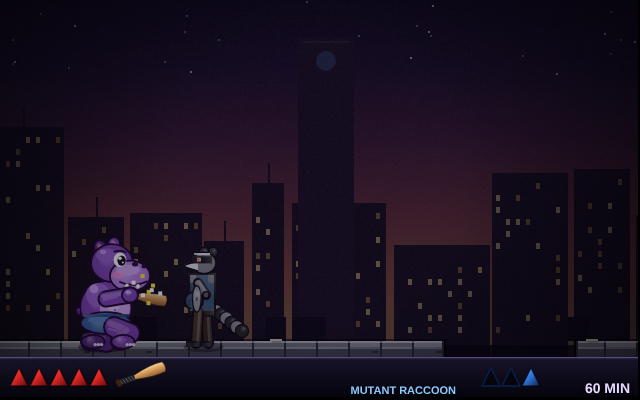
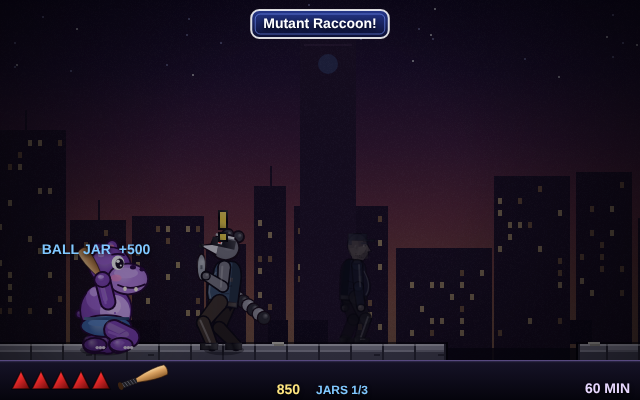
Batch 2: gritty new enemy figures, animation and fighting AI
Claude-Session: https://claude.ai/code/session_01RATZJMRGstuY21y69RtZUm

diff --git a/index.html b/index.html
@@ -876,7 +876,8 @@ function killFoe(e,how){const t=ET[e.type];if(e.st==='dead')return;e.hp=0;e.st='
 function hitFoe(e,dmg,kb,wn,fin){const t=ET[e.type],p=P;e.engaged=true;const hx=e.x-p.f*6,hy=e.y-(t.small?10:30);
  if(e.final){SFX.hurt();sparks(hx,hy,8,['#3a1a5a','#8a3ac0']);msgSet('Hitting your shadow only hurts you! Press DOWN and walk into him.',2.5);if(p.inv<=0)hurt(1,'self');return;}
  if(t.boss)kb*=0.25;
- if(!t.small&&wn!=='gun'&&(e.st==='idle'||e.st==='walk'||e.st==='recover'||e.st==='block'||(e.st==='stun'&&e.t>0.12))&&e.f===-p.f&&Math.random()<(t.block+(e.guard>0?0.45:0))*(wn==='bat'?0.4:1)*(fin?0.4:1)){e.st='block';e.t=0;SFX.clang();sparks(hx,hy,6,['#ffffff','#a0d8ff']);hitStop=0.05;return;}
+ if(e.st==='dodge'&&e.t<0.2){sparks(e.x,e.y-34,3,['#ffffff']);msgSet('Dodged!',0.6);return;}
+ if(!t.small&&wn!=='gun'&&(e.st==='idle'||e.st==='walk'||e.st==='recover'||e.st==='block'||e.st==='guard'||e.st==='feint'||(e.st==='stun'&&e.t>0.12))&&e.f===-p.f&&Math.random()<Math.min(0.75,t.block+(e.st==='guard'?0.4:0)+(e.guard>0?0.3:0))*(wn==='bat'?0.4:1)*(fin?0.4:1)){e.st='block';e.t=0;SFX.clang();sparks(hx,hy,6,['#ffffff','#a0d8ff']);hitStop=0.05;return;}
  e.hp-=dmg;e.guard=1.1;e.flash=0.18;SFX.hitE();sparks(hx,hy,fin?14:8,fin?['#ffffff','#ffe040','#ff8020']:['#ffffff','#ffe040']);hitStop=fin?0.12:0.06;shakeT=fin?0.2:0.08;
  if(fin)msgSet(['WHAM!','POW!','CRACK!','BOOM!'][Math.floor(Math.random()*4)],0.8);
  const er=rowOf(e.y),nx=e.x+p.f*kb,nc=colOf(nx);
@@ -897,6 +898,10 @@ function foeStrike(e){const p=P,t=ET[e.type];const adx=Math.abs(p.x-e.x);
  if(p.st==='dead'||rowOf(p.y)!==rowOf(e.y)||adx>t.reach+5||p.inv>0)return;foeHits(e);}
 function throwBottle(e){const p=P,t=ET[e.type],kind=t.proj||'bottle';const dx=p.x-e.x;if(kind==='golf'){LV.ebullets.push({x:e.x+e.f*10,y:e.y-20,vx:Math.sign(dx)*240,vy:-110,r:rowOf(e.y),src:e,life:2.5,kind});tone(1600,0.05,'square',0.04);return;}
  const tt=Math.max(0.45,Math.abs(dx)/170);LV.ebullets.push({x:e.x+e.f*8,y:e.y-36,vx:dx/tt,vy:-230,r:rowOf(e.y),src:e,life:2.5,kind});SFX.swing();}
+const STY={brawler:{feint:.06,guard:.08,parry:.12,dodge:0,combo:[1,2]},boxer:{feint:.15,guard:.18,parry:.3,dodge:.05,combo:[1,3]},suit:{feint:.1,guard:.22,parry:.35,dodge:.1,combo:[1,2]},
+ coward:{feint:.22,guard:.08,parry:.15,dodge:.35,combo:[1,1]},heavy:{feint:0,guard:.15,parry:.2,dodge:0,combo:[1,1]},rush:{feint:.05,guard:0,parry:.05,dodge:.2,combo:[2,3]},
+ beast:{feint:0,guard:0,parry:.05,dodge:.12,combo:[1,2]},trick:{feint:.3,guard:.05,parry:.12,dodge:.35,combo:[1,2]},boss:{feint:.15,guard:.12,parry:.2,dodge:.08,combo:[2,3]}};
+const STYLE={R:'brawler',j:'brawler',c:'boxer',A:'boxer',S:'boxer',y:'suit',z:'coward',l:'heavy',F:'heavy',g:'rush',O:'rush',M:'beast',b:'beast',X:'beast',N:'trick',Y:'trick',K:'boss',G:'boss'};
 function updateFoes(dt){const p=P;const pr=rowOf(p.y);
  for(const e of LV.enemies){const t=ET[e.type];e.t+=dt;if(e.flash>0)e.flash-=dt;if(e.guard>0)e.guard-=dt;
   if(e.st==='dead'){e.deadT+=dt;continue;}
@@ -925,20 +930,31 @@ function updateFoes(dt){const p=P;const pr=rowOf(p.y);
    case 'alert':e.f=dx>=0?1:-1;if(!sees){e.st='idle';e.engaged=false;e.t=0;break;}if(e.t>(t.small?0.6:1.0)){e.st='walk';e.t=0;e.cd=0.5;}break;
    case 'walk':{
     if(!sees){e.st='idle';e.t=0;break;}
-    e.f=dx>=0?1:-1;
+    e.f=dx>=0?1:-1;const S2=STY[STYLE[e.type]||'brawler'];
     if(t.throws&&adx>70&&e.cd<=0&&Math.random()<t.throws*(e.final2?1.8:1)*dt*3){e.st='throw';e.t=0;break;}
     if(t.lunge&&adx>45&&adx<120&&e.cd<=0&&Math.random()<t.lunge*dt*3){e.st='lwind';e.t=0;if(e.type==='b')SFX.bark();if(e.type==='X')SFX.howl();break;}
-    const want=t.small?18:27;
     if(e.final&&p.sheathT>0)break;
-    if(adx>want){const sp=(t.twitchy?t.speed*(0.6+0.8*Math.abs(Math.sin(T*7+e.home))):t.speed)*(e.enraged?1.3:1);if(!move(e.f*sp)&&adx<=t.reach+4&&e.cd<=0){e.st='wind';e.t=0;}}
-    else if(e.cd<=0){e.st='wind';e.t=0;if(e.type==='g'&&Math.random()<.5)SFX.honk();}
+    const sp=(t.twitchy?t.speed*(0.6+0.8*Math.abs(Math.sin(T*7+e.home))):t.speed)*(e.enraged?1.3:1);
+    if(p.st==='attack'&&adx<t.reach+34&&!e.reacted&&!e.final&&!(e.reactT>T)){e.reacted=true;e.reactT=T+1.3;const r=Math.random();if(r<S2.parry){e.st='guard';e.t=0.3;e.guard=0.6;break;}if(r<S2.parry+S2.dodge){e.st='dodge';e.t=0;break;}}
+    if(p.st!=='attack')e.reacted=false;
+    const d0=t.reach+12;
+    if(e.plan==='atk'){if(adx>t.reach-6){if(!move(e.f*sp*1.2)&&adx<=t.reach+4){e.st='wind';e.t=0;e.plan=null;}}else{e.st='wind';e.t=0;e.plan=null;}break;}
+    if(adx>d0+26){if(!move(e.f*sp)&&adx<=t.reach+4&&e.cd<=0){e.st='wind';e.t=0;}}
+    else{const tgt=d0+Math.sin(T*2.2+e.home*0.1)*7;if(adx<tgt-3)move(-e.f*sp*0.5);else if(adx>tgt+3)move(e.f*sp*0.5);
+     if(e.cd<=0){const r=Math.random();e.cd=0.25;
+      if(r<S2.feint){e.st='feint';e.t=0;}
+      else if(r<S2.feint+S2.guard){e.st='guard';e.t=0;e.guard=0.8;}
+      else{e.plan='atk';e.combo=S2.combo[0]-1+Math.floor(Math.random()*(S2.combo[1]-S2.combo[0]+1));if(e.type==='g'&&Math.random()<.5)SFX.honk();}}}
     break;}
+   case 'feint':if(e.t>0.22){e.st='retreat';e.t=0.12;if(Math.random()<0.55){e.plan='atk';e.combo=0;}}break;
+   case 'guard':e.f=dx>=0?1:-1;if(e.t>0.75){e.st='walk';e.t=0;e.cd=0.15;}break;
+   case 'dodge':move(-e.f*200);if(e.t>0.22){e.st='walk';e.t=0;e.cd=0;if(Math.random()<0.7){e.plan='atk';e.combo=0;}}break;
    case 'throw':if(e.t>0.45){throwBottle(e);e.st='recover';e.t=0;}break;
    case 'lwind':e.f=dx>=0?1:-1;if(e.t>0.45){e.st='lunge';e.t=0;}break;
    case 'lunge':{const ok=move(e.f*(t.small?240:200));if(adx<=t.reach||!ok||e.t>0.35){e.st='strike';e.t=0;foeStrike(e);}break;}
    case 'wind':if(e.t>t.wind){e.st='strike';e.t=0;foeStrike(e);}break;
-   case 'strike':if(e.t>0.16){if(t.retreat){e.st='retreat';e.t=0;}else{e.st='recover';e.t=0;}}break;
-   case 'retreat':move(-e.f*t.speed*0.8);if(e.t>0.35){e.st='walk';e.t=0;e.cd=rnd2(t.cd)*0.6;}break;
+   case 'strike':if(e.t>0.16){if(e.combo>0&&sees&&adx<=t.reach+16){e.combo--;e.st='wind';e.t=t.wind*0.55;}else{e.combo=0;if(t.retreat){e.st='retreat';e.t=0;}else{e.st='recover';e.t=0;}}}break;
+   case 'retreat':move(-e.f*t.speed*0.8);if(e.t>0.35){e.st='walk';e.t=0;if(e.plan!=='atk')e.cd=rnd2(t.cd)*0.6;}break;
    case 'recover':if(e.t>0.25){e.st='walk';e.t=0;e.cd=rnd2(t.cd)*(e.final2?0.7:1);}break;
    case 'block':if(e.t>0.22){if(adx<=t.reach+2&&sees&&Math.random()<0.7){e.st='wind';e.t=t.wind*0.3;}else{e.st='walk';e.t=0;e.cd=Math.min(e.cd,0.2);}}break;
    case 'stun':if(e.t>0.3){e.st='walk';e.t=0;e.cd=0.1+Math.random()*0.35;}break;}}
@@ -1318,6 +1334,7 @@ const CIV={
  colts:{skin:'#e0b090',skinD:'#b88868',shirt:'#1a3a8a',shirtD:'#122a66',pants:'#3a3a44',pantsD:'#2a2a32',shoe:'#202020',hat:'cap',hair:'#1a3a8a',belly:4,wep:'none'},
  doom:{skin:'#d8a888',skinD:'#b08060',shirt:'#2a2a2a',shirtD:'#1a1a1a',pants:'#3a3a3a',pantsD:'#2a2a2a',shoe:'#1a1a1a',hat:'cap',hair:'#2a2a2a',belly:0,wep:'none'},
  harmonica:{skin:'#d8b090',skinD:'#b08868',shirt:'#4a6a3a',shirtD:'#3a5a2a',pants:'#5a4a3a',pantsD:'#443628',shoe:'#3a2a1a',belly:1,wep:'none',hair:'#8a8a8a'}};
+for(const k in CIV)CIV[k].__k='civ_'+k;
 const CIV_E=['doom','harmonica','worker','lady','student','colts','worker','student'];
 function drawCiv(kind,cx,S,f,extra){const ft=CIV[kind];const e={type:'civ',st:'idle',t:0.3,anim:0,f,flash:0,hp:1,max:1,engaged:false,deadT:0};
  SH=true;try{drawFoeInner(e,cx,S,ft,{});}finally{SH=false;}
@@ -1625,22 +1642,23 @@ function drawHippoAt(pp,x,y,scale){const psh=SH;SH=true;C.save();C.translate(x,y
 const FOES={
  R:{skin:'#e08a6a',skinD:'#b4644a',shirt:'#ece8dc',shirtD:'#c0b8a4',pants:'#4a6a9a',pantsD:'#34507a',shoe:'#5a3a1a',hat:'camo',hair:'#7a4a20',belly:4,wep:'iron',bare:true},
  c:{skin:'#e0b090',skinD:'#b88a6a',shirt:'#26346a',shirtD:'#182250',pants:'#1c2850',pantsD:'#121a38',shoe:'#101010',hat:'cop',hair:'#3a2a1a',belly:3,wep:'stick',stache:true,shades:true,badge:true},
- y:{skin:'#e8c0a0',skinD:'#c09878',shirt:'#5e626e',shirtD:'#46494f',pants:'#4a4d56',pantsD:'#383a42',shoe:'#141414',hat:'slick',hair:'#18120e',belly:1,wep:'case',tie:'#c02020'},
+ y:{skin:'#e8c0a0',skinD:'#c09878',shirt:'#e4e0d6',jacket:'#5e626e',shirtD:'#46494f',pants:'#4a4d56',pantsD:'#383a42',shoe:'#141414',hat:'slick',hair:'#18120e',belly:1,wep:'case',tie:'#c02020'},
  j:{skin:'#d8b8a0',skinD:'#b09078',shirt:'#5a5a62',shirtD:'#44444a',pants:'#3a4a6a',pantsD:'#2a3850',shoe:'#2a2a2a',hat:'hood',hair:'#4a3a2a',belly:0,wep:'bottle'},
- K:{skin:'#e8b898',skinD:'#c09070',shirt:'#3a3a44',shirtD:'#2a2a32',pants:'#3a3a44',pantsD:'#2a2a32',shoe:'#141414',hat:'silver',hair:'#c8c8cc',belly:6,wep:'gavel',tie:'#d8b040',grin:true,pin:true},
- G:{skin:'#f0c8a8',skinD:'#c8a080',shirt:'#1a1a22',shirtD:'#101016',pants:'#1a1a22',pantsD:'#101016',shoe:'#3a2010',hat:'slick',hair:'#a8a8b0',belly:1,wep:'club',tie:'#c02020',shades:true},
+ K:{skin:'#e8b898',skinD:'#c09070',shirt:'#e4e0d6',jacket:'#3a3a44',shirtD:'#2a2a32',pants:'#3a3a44',pantsD:'#2a2a32',shoe:'#141414',hat:'silver',hair:'#c8c8cc',belly:6,wep:'gavel',tie:'#d8b040',grin:true,pin:true},
+ G:{skin:'#f0c8a8',skinD:'#c8a080',shirt:'#e4e0d6',jacket:'#1a1a22',shirtD:'#101016',pants:'#1a1a22',pantsD:'#101016',shoe:'#3a2010',hat:'slick',hair:'#a8a8b0',belly:1,wep:'club',tie:'#c02020',shades:true},
  X:{skin:'#6a5a4a',skinD:'#4a3e32',shirt:'#8a2a2a',shirtD:'#5a1a1a',pants:'#3a4a6a',pantsD:'#2a3850',shoe:'#4a3e32',hat:'wolf',hair:'#5a4a3a',belly:2,wep:'claw',fur:true},
  A:{skin:'#e0b494',skinD:'#b88c6c',shirt:'#8a8e96',shirtD:'#6a6e76',pants:'#2a3040',pantsD:'#1c2230',shoe:'#101010',hat:'guard',hair:'#3a2a1a',belly:2,wep:'flashlight',badge:true,radio:true},
  O:{skin:'#e8892c',skinD:'#b8641a',shirt:'#26262c',shirtD:'#18181c',pants:'#5a4a6a',pantsD:'#443652',shoe:'#e8892c',belly:1,wep:'claw',mutant:'cat',bare:true,rags:true},
- F:{skin:'#eab494',skinD:'#c08a6a',shirt:'#3a3e30',shirtD:'#2a2e22',pants:'#3a3e30',pantsD:'#2a2e22',shoe:'#1a1208',hat:'slick',hair:'#ececec',belly:8,wep:'stick',tie:'#2a8a3a',grin:true,cigar:true},
+ F:{skin:'#eab494',skinD:'#c08a6a',shirt:'#e4e0d6',jacket:'#3a3e30',shirtD:'#2a2e22',pants:'#3a3e30',pantsD:'#2a2e22',shoe:'#1a1208',hat:'slick',hair:'#ececec',belly:8,wep:'stick',tie:'#2a8a3a',grin:true,cigar:true},
  l:{skin:'#f2c8b0',skinD:'#c89880',shirt:'#ece6cc',shirtD:'#c8c0a0',pants:'#5a4632',pantsD:'#44341f',shoe:'#2a1a10',hat:'bald',hair:'#4a3a2a',belly:6,wep:'none',tank:true},
  g:{skin:'#8a7a68',skinD:'#6a5a4a',shirt:'#8a7a68',shirtD:'#6a5a4a',pants:'#3a4a62',pantsD:'#2a3850',shoe:'#e08a20',belly:3,wep:'wing',mutant:'goose',bare:true},
  M:{skin:'#7a5634',skinD:'#5a3e22',shirt:'#4a6a3a',shirtD:'#344e28',pants:'#3a3a32',pantsD:'#2a2a24',shoe:'#3a2a1a',belly:2,wep:'claw',mutant:'muskrat',bare:true,rags:true},
  Y:{skin:'#b8703a',skinD:'#8a5026',shirt:'#6a2a5a',shirtD:'#4e1e42',pants:'#4a4a5a',pantsD:'#36364a',shoe:'#5a3a1a',belly:0,wep:'claw',mutant:'squirrel',bare:true,rags:true},
  N:{skin:'#8a8a92',skinD:'#606068',shirt:'#3a5a7a',shirtD:'#2a4058',pants:'#4a3a2a',pantsD:'#36281c',shoe:'#202020',belly:3,wep:'lid',mutant:'raccoon',bare:true,rags:true},
  b:{skin:'#b89a7a',skinD:'#8a6e52',shirt:'#e8e4d8',shirtD:'#c0b8a4',pants:'#2a3040',pantsD:'#1c2230',shoe:'#141414',belly:1,wep:'claw',mutant:'pitbull',bare:true},
- z:{skin:'#eac2a2',skinD:'#c29a7a',shirt:'#b49a6a',shirtD:'#8e784e',pants:'#a88e60',pantsD:'#86704a',shoe:'#2a1a10',hat:'silver',hair:'#d4d4d8',belly:2,wep:'key',tie:'#6a3a9a',grin:true,pin:true}};
+ z:{skin:'#eac2a2',skinD:'#c29a7a',shirt:'#e4e0d6',jacket:'#b49a6a',shirtD:'#8e784e',pants:'#a88e60',pantsD:'#86704a',shoe:'#2a1a10',hat:'silver',hair:'#d4d4d8',belly:2,wep:'key',tie:'#6a3a9a',grin:true,pin:true}};
 const OUT2='#140a10';
+for(const k in FOES)FOES[k].__k=k;
 function foeWeapon(kind,hx,hy,ang){const ca=Math.cos(ang),sa=Math.sin(ang),pt=d=>[hx+ca*d,hy+sa*d];
  if(kind==='iron'){const a=pt(-1),b=pt(13);TL(a[0],a[1],b[0],b[1],4,OUT2);TL(a[0],a[1],b[0],b[1],2,'#8a8a96');const c=[b[0]-sa*4,b[1]+ca*4];TL(b[0],b[1],c[0],c[1],4,OUT2);TL(b[0],b[1],c[0],c[1],2,'#8a8a96');}
  else if(kind==='stick'){const a=pt(-3),b=pt(14);TL(a[0],a[1],b[0],b[1],5,OUT2);TL(a[0],a[1],b[0],b[1],3,'#24242a');TL(a[0],a[1],b[0],b[1],1,'#4a4a56');}
@@ -1764,26 +1782,135 @@ function drawFoe(e,sx,sy){const ft=FOES[e.type],t=ET[e.type];
  SH=true;try{drawFoeInner(e,sx,sy,ft,t);}finally{SH=false;}
  if(e.st==='dead'&&!e.washed&&!e.vanish&&!t.shadow)koStars(sx,sy-(t.small?14:(t.big?26:20)),t.small?0.7:1);}
 function koStars(x,y,k){C.save();for(let i=0;i<3;i++){const a=T*4+i*2.094,px=x+Math.cos(a)*9*k,py=y+Math.sin(a)*3*k,r=2.6*k*(0.8+0.25*Math.sin(a));C.fillStyle=Math.sin(a)>0?'#ffe040':'#fff6b0';C.beginPath();for(let j=0;j<8;j++){const rr=j%2?r*0.4:r,aa=j*Math.PI/4+T*3;C.lineTo(px+Math.cos(aa)*rr,py+Math.sin(aa)*rr);}C.closePath();C.fill();}C.restore();}
+/* ================= GRITTY FIGURES (batch 2) ================= */
+const FO='#0b090e';
+function shade(hex,f){const n=parseInt(hex.slice(1),16);let r=(n>>16)&255,g=(n>>8)&255,b=n&255;if(f<1){r*=f;g*=f;b*=f;}else{r+=(255-r)*(f-1);g+=(255-g)*(f-1);b+=(255-b)*(f-1);}return '#'+((1<<24)|(Math.round(r)<<16)|(Math.round(g)<<8)|Math.round(b)).toString(16).slice(1);}
+const GRIT_CACHE={};
+function grit(ft){if(GRIT_CACHE[ft.__k])return GRIT_CACHE[ft.__k];const g={};for(const k in ft){const v=ft[k];g[k]=(typeof v==='string'&&v[0]==='#'&&v.length===7)?mute(v):v;}if(ft.__k)GRIT_CACHE[ft.__k]=g;return g;}
+function mute(hex){const n=parseInt(hex.slice(1),16);let r=(n>>16)&255,g=(n>>8)&255,b=n&255;const l=(r+g+b)/3;r=r*0.78+l*0.22;g=g*0.78+l*0.22;b=b*0.78+l*0.22;r*=0.9;g*=0.9;b*=0.92;return '#'+((1<<24)|(Math.round(r)<<16)|(Math.round(g)<<8)|Math.round(b)).toString(16).slice(1);}
+function ik2(ax,ay,bx,by,l1,l2,dir){const dx=bx-ax,dy=by-ay;let d=Math.hypot(dx,dy);const mx=l1+l2-0.01;if(d>mx){bx=ax+dx/d*mx;by=ay+dy/d*mx;d=mx;}d=Math.max(d,0.01);
+ const a=(l1*l1-l2*l2+d*d)/(2*d),h=Math.sqrt(Math.max(0,l1*l1-a*a));const px=ax+dx*a/d,py=ay+dy*a/d;return [px+dir*h*(-dy/d),py+dir*h*(dx/d),bx,by];}
+function limb(ax,ay,bx,by,w1,w2,col){const dx=bx-ax,dy=by-ay,d=Math.hypot(dx,dy)||1,nx=-dy/d,ny=dx/d;
+ C.fillStyle=FO;C.beginPath();C.moveTo(ax+nx*(w1/2+0.8),ay+ny*(w1/2+0.8));C.lineTo(bx+nx*(w2/2+0.8),by+ny*(w2/2+0.8));C.lineTo(bx-nx*(w2/2+0.8),by-ny*(w2/2+0.8));C.lineTo(ax-nx*(w1/2+0.8),ay-ny*(w1/2+0.8));C.fill();
+ C.beginPath();C.arc(ax,ay,w1/2+0.8,0,7);C.arc(bx,by,w2/2+0.8,0,7);C.fill();
+ C.fillStyle=col;C.beginPath();C.moveTo(ax+nx*w1/2,ay+ny*w1/2);C.lineTo(bx+nx*w2/2,by+ny*w2/2);C.lineTo(bx-nx*w2/2,by-ny*w2/2);C.lineTo(ax-nx*w1/2,ay-ny*w1/2);C.fill();
+ C.beginPath();C.arc(ax,ay,w1/2,0,7);C.fill();C.beginPath();C.arc(bx,by,w2/2,0,7);C.fill();}
+function figHead(ft,hx,hy,tilt,q){C.save();C.translate(hx,hy);C.rotate(tilt||0);
+ if(ft.mutant){C.scale(1.18,1.18);mutantHead(ft,0,0);C.restore();return;}
+ if(ft.hat==='wolf'){wolfHead(ft);C.restore();return;}
+ const sk=ft.skin,skd=shade(ft.skin,0.72),hair=ft.hair||'#2a2018';
+ // neck
+ R(-2.5,4,5,5,FO);R(-1.8,4,3.6,5,skd);
+ // back hair / ear
+ if(ft.hat==='mullet'){C.fillStyle=FO;C.beginPath();C.moveTo(-5.5,-2);C.lineTo(-7,9);C.lineTo(-2,7);C.fill();C.fillStyle=hair;C.beginPath();C.moveTo(-5,-1);C.lineTo(-6.2,8);C.lineTo(-2.4,6.2);C.fill();}
+ // skull + jaw
+ C.fillStyle=FO;C.beginPath();C.ellipse(0,-1,6,6.8,0,0,7);C.fill();C.beginPath();C.moveTo(-5,1);C.lineTo(-3,7.4);C.lineTo(3.6,8.2);C.lineTo(6.6,4);C.lineTo(6.4,-1);C.fill();
+ C.fillStyle=sk;C.beginPath();C.ellipse(0,-1,5.2,6,0,0,7);C.fill();C.beginPath();C.moveTo(-4.3,1);C.lineTo(-2.6,6.6);C.lineTo(3.4,7.4);C.lineTo(5.8,3.8);C.lineTo(5.6,-1);C.fill();
+ C.fillStyle=skd;C.beginPath();C.ellipse(-2.2,0,3,5.4,0,0,7);C.fill();C.beginPath();C.moveTo(-4.3,1);C.lineTo(-2.6,6.6);C.lineTo(0,6.9);C.lineTo(-1,1);C.fill();
+ // nose
+ C.fillStyle=sk;C.beginPath();C.moveTo(5,-2);C.lineTo(7.6,2.2);C.lineTo(5.2,2.8);C.fill();C.strokeStyle=FO;C.lineWidth=0.6;C.beginPath();C.moveTo(5.2,-2);C.lineTo(7.8,2.3);C.lineTo(5.4,2.9);C.stroke();
+ // ear
+ E(-0.6,0.4,1.4,2,skd);E(-0.4,0.4,0.6,1.1,shade(ft.skin,0.55));
+ // brow + eye
+ R(1.8,-2.6,4,1.1,shade(hair,0.8));
+ if(q.eyes==='x'){C.strokeStyle=FO;C.lineWidth=0.7;C.beginPath();C.moveTo(3,-1.6);C.lineTo(4.8,0.2);C.moveTo(4.8,-1.6);C.lineTo(3,0.2);C.stroke();}
+ else if(ft.shades){R(1.6,-1.8,4.8,2,'#0a0a10');R(2,-1.6,1.4,0.6,'#6a7a9a');}
+ else{R(3.2,-1.4,1.6,1.3,'#f0e8d8');R(3.9,-1.3,0.9,1.1,'#100c0c');}
+ // cheek shadow, stubble, mouth
+ C.save();C.globalAlpha=0.35;R(1,2.6,5,4,shade(ft.skin,0.6));C.restore();
+ if(ft.stubble!==false&&!ft.clean){C.save();C.globalAlpha=0.35;for(let i=0;i<10;i++)R(-1+((i*37)%7),3.5+((i*13)%3),0.6,0.6,'#2a2018');C.restore();}
+ if(q.mouth){R(2.6,4.2,3,1.6,'#3a1010');R(2.8,4.2,2.6,0.5,'#e8e0c8');}else if(ft.grin){R(2.4,4.4,3.4,0.8,'#5a2020');R(2.6,4.2,3,0.5,'#f0e8d0');}else R(2.8,4.6,2.6,0.7,shade(ft.skin,0.45));
+ if(ft.stache)R(2.4,3.4,3.8,1.4,hair);
+ if(ft.cigar){R(5,4.4,6,1.6,'#5a3a1a');R(10.4,4.4,1,1.6,'#ff6020');C.save();C.globalAlpha*=0.4;E(11+Math.sin(T*3),0-((T*6)%6),1.5,1.5,'#c8c8c8');C.restore();}
+ // hair / hats
+ const h=ft.hat;
+ if(h==='bald'){R(-5,-2,2,5,hair);R(-4.6,-3,1.6,1,hair);E(0,-4.6,2.4,1.1,'rgba(255,250,240,0.75)');for(let i=0;i<2;i++){const ph=(T*0.9+i*0.55)%1;C.save();C.globalAlpha*=1-ph;E(i?3:-1,-3+ph*9,0.7,1.1,'#a8e0ff');C.restore();}}
+ else if(h==='slick'||h==='silver'){C.fillStyle=FO;C.beginPath();C.ellipse(-0.6,-4.2,6,3.6,-0.15,Math.PI*0.95,Math.PI*2.05);C.fill();C.fillStyle=hair;C.beginPath();C.ellipse(-0.6,-4,5.4,3,-0.15,Math.PI*0.95,Math.PI*2.05);C.fill();R(-5.6,-4,2.4,5,hair);C.strokeStyle=shade(hair,1.3);C.lineWidth=0.5;C.beginPath();C.moveTo(-4,-5.5);C.quadraticCurveTo(0,-7.6,4.4,-5);C.stroke();
+  if(h==='silver'){E(4.2,-4.4,1.6,1.4,hair);}}
+ else if(h==='camo'||h==='cap'){R(-5.6,-7.6,11,4.2,FO);R(-5,-7.2,10,3.6,h==='camo'?'#4a5a32':hair);if(h==='camo'){R(-3,-6.6,2,1,'#2a3420');R(1,-5.6,2,1,'#6a6a3a');}R(3,-4.4,6.6,1.6,FO);R(3.4,-4.2,6,1,h==='camo'?'#3a4a28':shade(hair,0.8));R(-5.2,-4,2,3,shade(ft.hair||'#5a3a20',0.9));}
+ else if(h==='cop'||h==='guard'){R(-5.8,-8.4,11.6,4.6,FO);R(-5.2,-8,10.4,4,h==='cop'?'#1c2850':'#4a4e56');R(-0.5,-7.4,2.4,1.6,h==='cop'?'#e8c040':'#c8c8d0');R(3,-4.6,6.6,1.6,FO);R(3.4,-4.4,6,1,'#101010');}
+ else if(h==='hood'){C.fillStyle=FO;C.beginPath();C.ellipse(-0.5,-1,7,7.6,0,Math.PI*0.6,Math.PI*2.2);C.fill();C.fillStyle=ft.shirt;C.beginPath();C.ellipse(-0.5,-1,6.2,6.8,0,Math.PI*0.6,Math.PI*2.2);C.fill();}
+ else{C.fillStyle=hair;C.beginPath();C.ellipse(-0.8,-4,5.4,3,0,Math.PI,Math.PI*2);C.fill();R(-5.6,-4,2.2,4,hair);}
+ C.restore();}
+function wolfHead(ft){const f=ft.skin,fd=shade(ft.skin,0.7);C.fillStyle=FO;C.beginPath();C.moveTo(-4,-6);C.lineTo(-2,-13);C.lineTo(1,-6);C.fill();C.beginPath();C.moveTo(0,-6);C.lineTo(3,-12);C.lineTo(5,-5);C.fill();
+ E(0,-1,6.6,6.4,FO);E(0,-1,5.8,5.6,f);C.fillStyle=FO;C.beginPath();C.moveTo(3,-3);C.lineTo(12,1);C.lineTo(11,4);C.lineTo(3,5);C.fill();C.fillStyle=fd;C.beginPath();C.moveTo(3.4,-2.4);C.lineTo(11.2,1.2);C.lineTo(10.4,3.6);C.lineTo(3.4,4.4);C.fill();
+ R(10.6,0.4,1.8,1.6,'#0a0a0a');R(2.4,-2.6,2,1.4,'#ffd020');R(3.4,-2.4,0.8,1,'#000');for(let i=0;i<3;i++)R(5+i*2,3.4,0.8,1.6,'#f0e8d0');C.save();C.globalAlpha=0.5;for(let i=0;i<8;i++)R(-5+i*1.3,-6+((i*7)%5),0.6,2,fd);C.restore();}
+function figWeapon(ft,hx,hy,ang){foeWeapon(ft.wep,hx,hy,ang);}
+function drawFig(ft0,q){const ft=grit(ft0);
+ const hipX=q.hipX||0,hipY=-26+(q.crouch||0),lean=q.lean||0,sl=Math.sin(lean),cl=Math.cos(lean);
+ const S=(x,y)=>[hipX+x*cl-y*sl,hipY+x*sl+y*cl];
+ const [shx,shy]=S(0,-19),[sfx,sfy]=S(2,-18),[sbx,sby]=S(-2,-18);
+ const bare=ft.bare||ft.tank,armC=bare?ft.skin:(ft.jacket||ft.shirt),armD=shade(armC,0.62),leg=ft.pants,legD=shade(leg,0.62);
+ const big=q.bulk||0;
+ if(ft.mutant){C.save();C.translate(0,-8);mutantTail(ft);C.restore();}
+ // back arm
+ const [ebx,eby]=ik2(sbx,sby,q.hb[0],q.hb[1],10,10,1);limb(sbx,sby,ebx,eby,5.2+big,4.4+big,armD);limb(ebx,eby,q.hb[0],q.hb[1],4.4+big,3.6+big,bare?shade(ft.skin,0.62):armD);E(q.hb[0],q.hb[1],2.2,2.2,FO);E(q.hb[0],q.hb[1],1.5,1.5,shade(ft.skin,0.6));
+ // back leg
+ const [hbx,hby]=S(-2.2,0),[kbx,kby]=ik2(hbx,hby,q.fb[0],q.fb[1]-2.5,13,12,-1);limb(hbx,hby,kbx,kby,7+big,5.6+big,legD);limb(kbx,kby,q.fb[0],q.fb[1]-2.5,5.6+big,4.6+big,legD);
+ R(q.fb[0]-3,q.fb[1]-3.6,8.4,3.6,FO);R(q.fb[0]-2.4,q.fb[1]-3,7.4,2.6,shade(ft.shoe,0.65));
+ // torso
+ C.save();C.translate(hipX,hipY);C.rotate(lean);const bel=Math.min(9,(ft.belly||0)*1.1)+big;
+ const torso=(grow,col)=>{C.fillStyle=col;C.beginPath();C.moveTo(-6.4-grow,1+grow);C.lineTo(-6.6-grow,-10);C.quadraticCurveTo(-7-grow,-19-grow,-3,-20.6-grow);C.lineTo(3.4,-20.6-grow);C.quadraticCurveTo(7+grow,-19,6.6+grow,-14);C.quadraticCurveTo(7+bel+grow,-7,5.6+bel*0.6+grow,-1);C.quadraticCurveTo(4+grow,1.6+grow,-1,1.6+grow);C.closePath();C.fill();};
+ torso(0.9,FO);
+ const top=bare&&!ft.tank?ft.shirt:ft.shirt;
+ if(ft.mutant&&!ft.rags){torso(0,ft.skin);}
+ else if(ft.tank){torso(0,ft.skin);C.fillStyle=ft.shirt;C.beginPath();C.moveTo(-5.4,1);C.lineTo(-5.4,-14);C.lineTo(-3,-16);C.lineTo(-1,-12);C.lineTo(2.6,-12);C.lineTo(4,-16);C.lineTo(5.6,-14);C.quadraticCurveTo(6+bel,-7,4.8+bel*0.6,-1);C.lineTo(-1,1.2);C.fill();E(2,-6,1.6,1.2,'#b8a870');E(-2,-2,1.4,1,'#b8a870');R(-4.6,-19,1.7,19,'#7a1414');R(2.8,-19,1.7,19,'#7a1414');}
+ else{torso(0,ft.jacket||top);if(ft.jacket){C.fillStyle=ft.shirt;C.beginPath();C.moveTo(1.2,-20);C.lineTo(4.2,-20);C.lineTo(4.6+bel*0.4,-6);C.lineTo(2.4,-6);C.fill();if(ft.tie){C.fillStyle=ft.tie;C.beginPath();C.moveTo(2.4,-19.6);C.lineTo(3.8,-19.6);C.lineTo(4.2+bel*0.3,-9);C.lineTo(3,-7.6);C.lineTo(2,-9);C.fill();}
+   C.strokeStyle=shade(ft.jacket,0.55);C.lineWidth=0.8;C.beginPath();C.moveTo(1,-20);C.lineTo(2.2,-13);C.lineTo(1.6,-6);C.stroke();}
+  else if(ft.tie){C.fillStyle=ft.tie;C.beginPath();C.moveTo(2.4,-19.6);C.lineTo(3.8,-19.6);C.lineTo(4.2+bel*0.3,-9);C.lineTo(3,-7.6);C.lineTo(2,-9);C.fill();}
+  if(ft.rags){C.fillStyle=FO;for(let i=0;i<4;i++){C.beginPath();C.moveTo(-5+i*3,1);C.lineTo(-3.5+i*3,4);C.lineTo(-2+i*3,1);C.fill();}R(-3,-13,2,2,shade(ft.skin,0.8));R(2,-9,2,1.5,shade(ft.skin,0.8));}}
+ // torso shading: back side dark, front rim light, wrinkles
+ C.save();C.globalAlpha=0.38;C.fillStyle='#000';C.beginPath();C.moveTo(-6.4,1);C.lineTo(-6.6,-10);C.quadraticCurveTo(-7,-19,-3,-20.6);C.lineTo(-1.8,-20.6);C.lineTo(-2.4,1.4);C.fill();C.restore();
+ C.save();C.globalAlpha=0.25;C.strokeStyle='#ffffff';C.lineWidth=0.7;C.beginPath();C.moveTo(5.8,-15);C.quadraticCurveTo(6.4+bel,-7,5+bel*0.6,-1.5);C.stroke();C.restore();
+ C.save();C.globalAlpha=0.3;C.strokeStyle='#000';C.lineWidth=0.6;C.beginPath();C.moveTo(-3,-9);C.lineTo(1,-8);C.moveTo(-2,-5);C.lineTo(2,-4.4);C.stroke();C.restore();
+ if(ft.badge)R(2.8,-16,1.8,2,'#d8b040');
+ if(ft.radio){R(-4.6,-17,2.4,4,'#141414');R(-4,-17,0.8,0.8,Math.floor(T*3)%2?'#40ff40':'#104010');}
+ if(ft.pin)R(-0.6,-17,1.4,1.4,'#e8c040');
+ // belt + pants top
+ R(-6.6,-1,13+bel*0.5,2.6,FO);R(-6,-0.6,12+bel*0.5,1.8,ft.mutant&&!ft.rags?shade(ft.skin,0.8):shade(leg,0.8));R(1,-0.6,2,1.8,'#a08a40');
+ C.restore();
+ // front leg
+ const [hfx,hfy]=S(2.2,0),[kfx,kfy]=ik2(hfx,hfy,q.ff[0],q.ff[1]-2.5,13,12,-1);limb(hfx,hfy,kfx,kfy,7.2+big,5.8+big,leg);limb(kfx,kfy,q.ff[0],q.ff[1]-2.5,5.8+big,4.8+big,leg);
+ C.save();C.globalAlpha=0.3;TL(kfx+1.4,kfy-1,q.ff[0]+1,q.ff[1]-4,1,'#ffffff');C.restore();
+ R(q.ff[0]-3,q.ff[1]-3.6,9,3.6,FO);R(q.ff[0]-2.4,q.ff[1]-3,8,2.6,ft.shoe);R(q.ff[0]+0.4,q.ff[1]-3,3,0.8,shade(ft.shoe,1.4));
+ // head
+ const [hx,hy]=S(1.6+(q.headX||0),-28+(q.headY||0));figHead(ft,hx,hy,(q.tilt||0)+lean*0.5,q);
+ // front arm + weapon
+ const [efx,efy]=ik2(sfx,sfy,q.hf[0],q.hf[1],10,10,1);limb(sfx,sfy,efx,efy,5.4+big,4.6+big,armC);
+ if(ft.wep&&ft.wep!=='none')figWeapon(ft,q.hf[0],q.hf[1],q.wang);
+ limb(efx,efy,q.hf[0],q.hf[1],4.6+big,3.8+big,bare?ft.skin:armC);
+ if(!bare&&!ft.mutant){R(q.hf[0]-1.8,q.hf[1]-1.8,3.6,3.6,FO);}
+ E(q.hf[0],q.hf[1],2.4,2.3,FO);E(q.hf[0],q.hf[1],1.7,1.6,ft.mutant?shade(ft.skin,0.85):ft.skin);
+ C.save();C.globalAlpha=0.25;TL(sfx+1,sfy,efx+1,efy,1,'#ffffff');C.restore();}
+/* pose generation */
+function figPose(e,t){const ph=e.anim*0.22,s=Math.sin(ph),c=Math.cos(ph),br=Math.sin(T*2.4+(e.home||0))*0.6;
+ const q={hipX:0,crouch:0,lean:0.05,ff:[4,0],fb:[-4,0],hf:[6,-22],hb:[-4,-21],wang:1.2,tilt:0,headX:0,headY:br*0.3,mouth:0,eyes:'n'};
+ const guard=()=>{q.crouch=2.5;q.lean=0.1;q.hf=[9,-37];q.hb=[5,-33];q.wang=-1.1;q.ff=[6,0];q.fb=[-6,0];};
+ const st=e.st,k=e.t;
+ if(st==='idle'&&!e.engaged){q.hf=[5,-20+br*0.4];q.hb=[-4,-20];q.wang=1.3;}
+ else if(st==='idle'||st==='alert'||st==='guard'){guard();q.headY+=br*0.4;if(st==='alert'){q.lean=-0.12;q.tilt=-0.15;q.mouth=1;}if(st==='guard'){q.hf=[10,-39];q.hb=[8,-35];q.wang=-1.5;q.tilt=0.1;}}
+ else if(st==='walk'||st==='retreat'||st==='dodge'){guard();const sw=st==='dodge'?0.6:1;q.ff=[4+s*7*sw,-Math.max(0,c)*4*sw];q.fb=[-4-s*7*sw,-Math.max(0,-c)*4*sw];q.crouch=2.5+Math.abs(s)*1.2;q.hf[0]+=s*1.2;q.hb[0]-=s*1.2;
+  if(st==='dodge'){q.lean=-0.25;q.hf=[6,-40];q.hb=[2,-36];}}
+ else if(st==='wind'||st==='feint'){const a=Math.min(1,k/Math.max(0.12,t.wind));q.crouch=3.5;q.lean=-0.18*a;q.ff=[8,0];q.fb=[-7,0];q.hf=[-8*a+2,-40-4*a];q.hb=[2,-32];q.wang=-2.6;q.tilt=-0.1*a;if(st==='feint'){q.hf=[-4,-40];}}
+ else if(st==='lwind'){q.crouch=7;q.lean=0.3;q.ff=[9,0];q.fb=[-9,0];q.hf=[2,-28];q.hb=[-6,-26];q.wang=0.3;q.tilt=0.2;}
+ else if(st==='lunge'){q.crouch=4;q.lean=0.45;q.ff=[12,-3];q.fb=[-10,-1];q.hf=[18,-30];q.hb=[2,-30];q.wang=0.1;q.mouth=1;}
+ else if(st==='strike'){q.crouch=3;q.lean=0.32;q.ff=[11,0];q.fb=[-8,0];q.hf=[19,-31];q.hb=[1,-31];q.wang=0.15;q.mouth=1;q.tilt=0.12;}
+ else if(st==='recover'){q.crouch=2.5;q.lean=0.15;q.ff=[8,0];q.fb=[-6,0];q.hf=[13,-28];q.hb=[3,-30];q.wang=0.7;}
+ else if(st==='block'){q.crouch=3;q.lean=-0.05;q.ff=[5,0];q.fb=[-7,0];q.hf=[10,-41];q.hb=[8,-36];q.wang=-1.57;q.tilt=-0.1;}
+ else if(st==='throw'){const a=Math.min(1,k/0.45);q.lean=-0.2+0.5*a;q.hf=a<0.7?[-8,-44]:[14,-38];q.hb=[4,-30];q.wang=-2;q.ff=[8,0];q.fb=[-7,0];}
+ else if(st==='stun'){const w=Math.sin(T*14)*0.06;q.crouch=4;q.lean=-0.32+w;q.tilt=-0.35;q.hf=[-4,-24];q.hb=[-9,-25];q.wang=0.8;q.ff=[7,0];q.fb=[-6,0];q.eyes=k<0.15?'x':'n';q.mouth=1;}
+ else if(st==='recover2'){q.lean=0.1;}
+ return q;}
+function drawFigDead(e,ft){const q={hipX:0,crouch:0,lean:0,ff:[6,-2],fb:[-3,0],hf:[8,-26],hb:[-6,-30],wang:1.6,tilt:0.2,mouth:1,eyes:'x'};
+ C.save();C.translate(22,-7);C.rotate(-Math.PI/2);drawFig(ft,q);C.restore();}
+
 function drawFoeInner(e,sx,sy,ft,t){
  if(t.shadow){if(e.vanish){if(e.deadT<2){const a=Math.max(0,(2-e.deadT)/0.5)*0.5;if(a>0)drawShadowHippo(shadowPose('idle',0,0),e.f,sx,sy,Math.min(1,a));}return;}drawShadowHippo(shadowPose(e.st,e.t,e.anim),e.f,sx+(e.flash>0?1:0),sy,e.final?0.75+Math.sin(T*4)*0.15:1);if(e.st==='alert'){R(sx-2,sy-62,5,10,'#000');R(sx-1,sy-61,3,8,'#ff4060');}return;}
  C.save();C.translate(Math.round(sx+(e.flash>0?(Math.floor(T*60)%2?1:-1):0)),Math.round(sy));
  if(e.st==='dead'&&e.washed){C.globalAlpha=Math.max(0,1-e.deadT/1.2);C.translate(0,e.deadT*14);}
  if(e.f<0)C.scale(-1,1);
- {const q={hb:[-4,-19],hf:[5,-20],wang:1.2,ff:[3,0],fb:[-3,0],hx:1,hy:-42};if(t.big&&e.st!=='dead')C.scale(1.2,1.2);
-  const ph=e.anim*0.2,s=Math.sin(ph);
-  if(e.st==='walk'||e.st==='retreat'){q.ff=[2+s*6,-Math.max(0,Math.cos(ph))*3];q.fb=[-2-s*6,-Math.max(0,-Math.cos(ph))*3];q.hf=[7,-27];q.wang=-0.7;}
-  if(e.st==='idle'&&e.engaged){q.hf=[7,-27];q.wang=-0.7;}
-  if(e.st==='wind'||e.st==='lwind'||e.st==='throw'){q.hf=[-3,-41];q.wang=-2.4;q.hx=0;q.ff=[5,0];q.fb=[-5,0];if(e.st==='lwind'){q.hx=-2;q.ff=[7,0];q.fb=[-7,0];}}
-  if(e.st==='lunge'){q.hf=[14,-30];q.wang=0.1;q.hx=4;q.ff=[9,-3];q.fb=[-8,-2];}
-  if(e.st==='retreat'||e.st==='fall'){q.hf=[4,-32];q.wang=-1;}
-  if(e.st==='strike'){q.hf=[16,-29];q.wang=0.2;q.hx=3;q.ff=[7,0];q.fb=[-5,0];}
-  if(e.st==='recover'){q.hf=[10,-24];q.wang=0.8;}
-  if(e.st==='block'){q.hf=[8,-37];q.wang=-1.57;}
-  if(e.st==='stun'){q.hf=[-2,-26];q.wang=0.4;q.hx=-2;}
-  if(e.st==='dead'){C.rotate(-Math.PI/2);C.translate(0,-8);q.hf=[8,-22];q.wang=1.4;}
-  drawPerson(ft,q);
-  if(e.st==='dead'&&e.deadT<1){R(-2,-50-e.deadT*8,1,1,'#ffff80');}}
- if(e.st==='alert'){const yy=t.small?-30:(t.big?-74:-62);R(-2,yy,5,10,'#000');R(-1,yy+1,3,8,'#ffe040');R(-2,yy+11,5,5,'#000');R(-1,yy+12,3,3,'#ffe040');}
+ {if(t.big&&e.st!=='dead')C.scale(1.15,1.15);if(e.st==='dead')drawFigDead(e,ft);else drawFig(ft,figPose(e,t));}
+ if(e.st==='alert'){const yy=t.big?-82:-70;R(-2,yy,5,10,'#000');R(-1,yy+1,3,8,'#ffe040');R(-2,yy+11,5,5,'#000');R(-1,yy+12,3,3,'#ffe040');}
  C.restore();C.globalAlpha=1;}
 /* ================= RENDER ================= */
 
@@ -1889,8 +2016,8 @@ function drawCrowdScene(t){if(!titleBg)titleBg=buildTitleBg();g.drawImage(titleB
  R(0,186,W,14,'#2a2a30');R(0,186,W,1,'#5a5a64');for(let x=0;x<W;x+=24)R(x+((t*0)|0),193,12,1,'#d8c860');
  // back row of crowd
  const row=(list,y0,sc,shift)=>{list.forEach(([k,i],j)=>{const ph=t*7+i*1.3,b=Math.max(0,Math.sin(ph))*4*sc,x=10+j*26+shift,y=y0-b,f=x<160?1:-1;
-   const ft=CIV[k];const q={hb:[-6,-50],hf:[6,-51],wang:-1.4,ff:[3,0],fb:[-3,0],hx:1,hy:-42};if(Math.sin(ph+1)>0.3){q.hf=[8,-44];}
-   C.save();C.translate(x,y);C.scale(sc*f,sc);SH=true;try{drawPerson(ft,q);}finally{SH=false;}C.restore();
+   const ft=CIV[k];const q={hb:[-5,-66],hf:[7,-67],wang:-1.4,ff:[4,0],fb:[-4,0],mouth:1};if(Math.sin(ph+1)>0.3){q.hf=[10,-56];}
+   C.save();C.translate(x,y);C.scale(sc*f*0.85,sc*0.85);SH=true;try{drawFig(ft,q);}finally{SH=false;}C.restore();
    if(i%3===0){const sg=SIGNS[(i/3)%SIGNS.length|0];C.save();C.translate(x,y-sc*58);R(-1,0,2,sc*10,'#6a4a2a');C.font='bold 5px Arial';const w=C.measureText(sg).width+6;R(-w/2,-9,w,10,'#f4ecd8');R(-w/2,-9,w,1,'#c8b898');C.fillStyle='#6a2aa8';C.textAlign='center';C.fillText(sg,0,-2);C.restore();}});};
  C.save();C.globalAlpha=0.85;row(CROWD.slice(0,12),168,0.85,4);C.restore();
  // hippo walks to center
